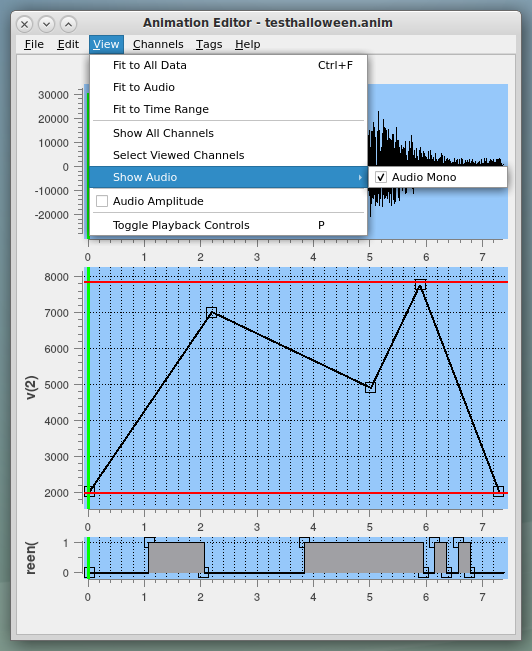
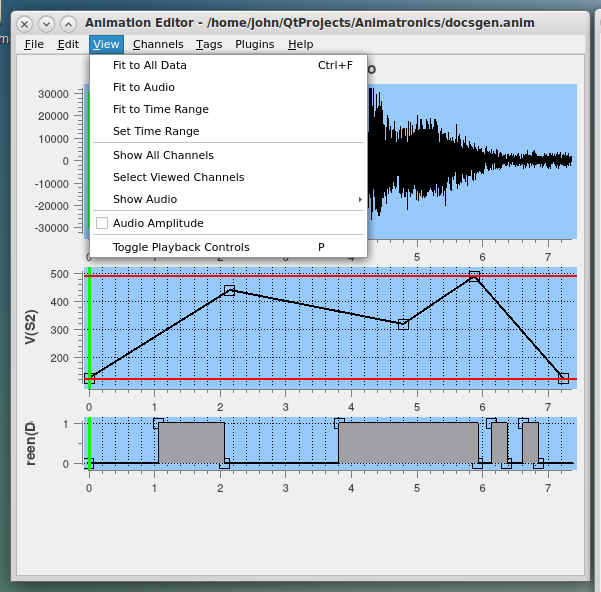
Added a cutoff to amplitudinize to support bar display

diff --git a/docs/Help.md b/docs/Help.md
@@ -226,6 +226,7 @@ is designed to aid in this process.  The View menu contains the following option
 + Fit to All Data - Fit all audio and channel data to the current window width.  This essentially undoes all zooming.
 + Fit to Audio - Fit the audio to the current window width, hiding any part of the channel data outside the timespan of the audio.
 + Fit to Time Range - Fit the full time range specified in the animation metadata to the window.
++ Set Time Range - Bring up dialog to specify exact visible range desired.
 + Show All Channels - Make all channels visible within the window.  This may make the channel panes microscopically small.
 + Select Viewed Channels - Brings up a selection widget for selecting channels to be visible or hidden.
 + Show Audio - Controls the display of audio channels.
@@ -264,7 +265,7 @@ any of several sources and is closely coupled with the hardware controller and i
 software.  Generally, the controller will play an animation until both its audio tracks and
 its control file have completed playing.  If there are seven seconds of audio and ten
 seconds of animation control, it will play for ten seconds.  If there are seven seconds of
-audion and five seonds of animation control, it will play for seven seconds.  Thus, the
+audio and five seonds of animation control, it will play for seven seconds.  Thus, the
 playback duration is set by the longer of the audio or the CSV file containing the control
 values.
 
@@ -312,12 +313,16 @@ digital channel or vice versa and is not recommended.
 
 The Amplitudize function fills the channel with data points based on the amplitude of the audio signal.
 By default, it only fills the visible part of the channel but the user may change that as well as the
-sampling rate of the new data points.
+sampling rate of the new data points.  The dialog for the Amplitudize function also allows a cutoff value
+to be specified.  For Digital channels, any value below the cutoff results in a zero digital value while
+any value above the cutoff results in a one digital value.  If the cutoff is less than or equal to 0.0,
+it essentially defaults to the midpoint of the audio data range.
 
 The Shift function is not yet implemented.
 
 The Delete function requests confirmation prior to deleting.  This is because it is difficult but
-possible to select and then delete a channel that is hidden.  Of course the delete may be undone.
+possible to select and then delete a channel that is hidden such that the user is not immediately
+aware that a channel was deleted.  Of course the delete may be undone.
 
 <a name="tags">
 &nbsp;
